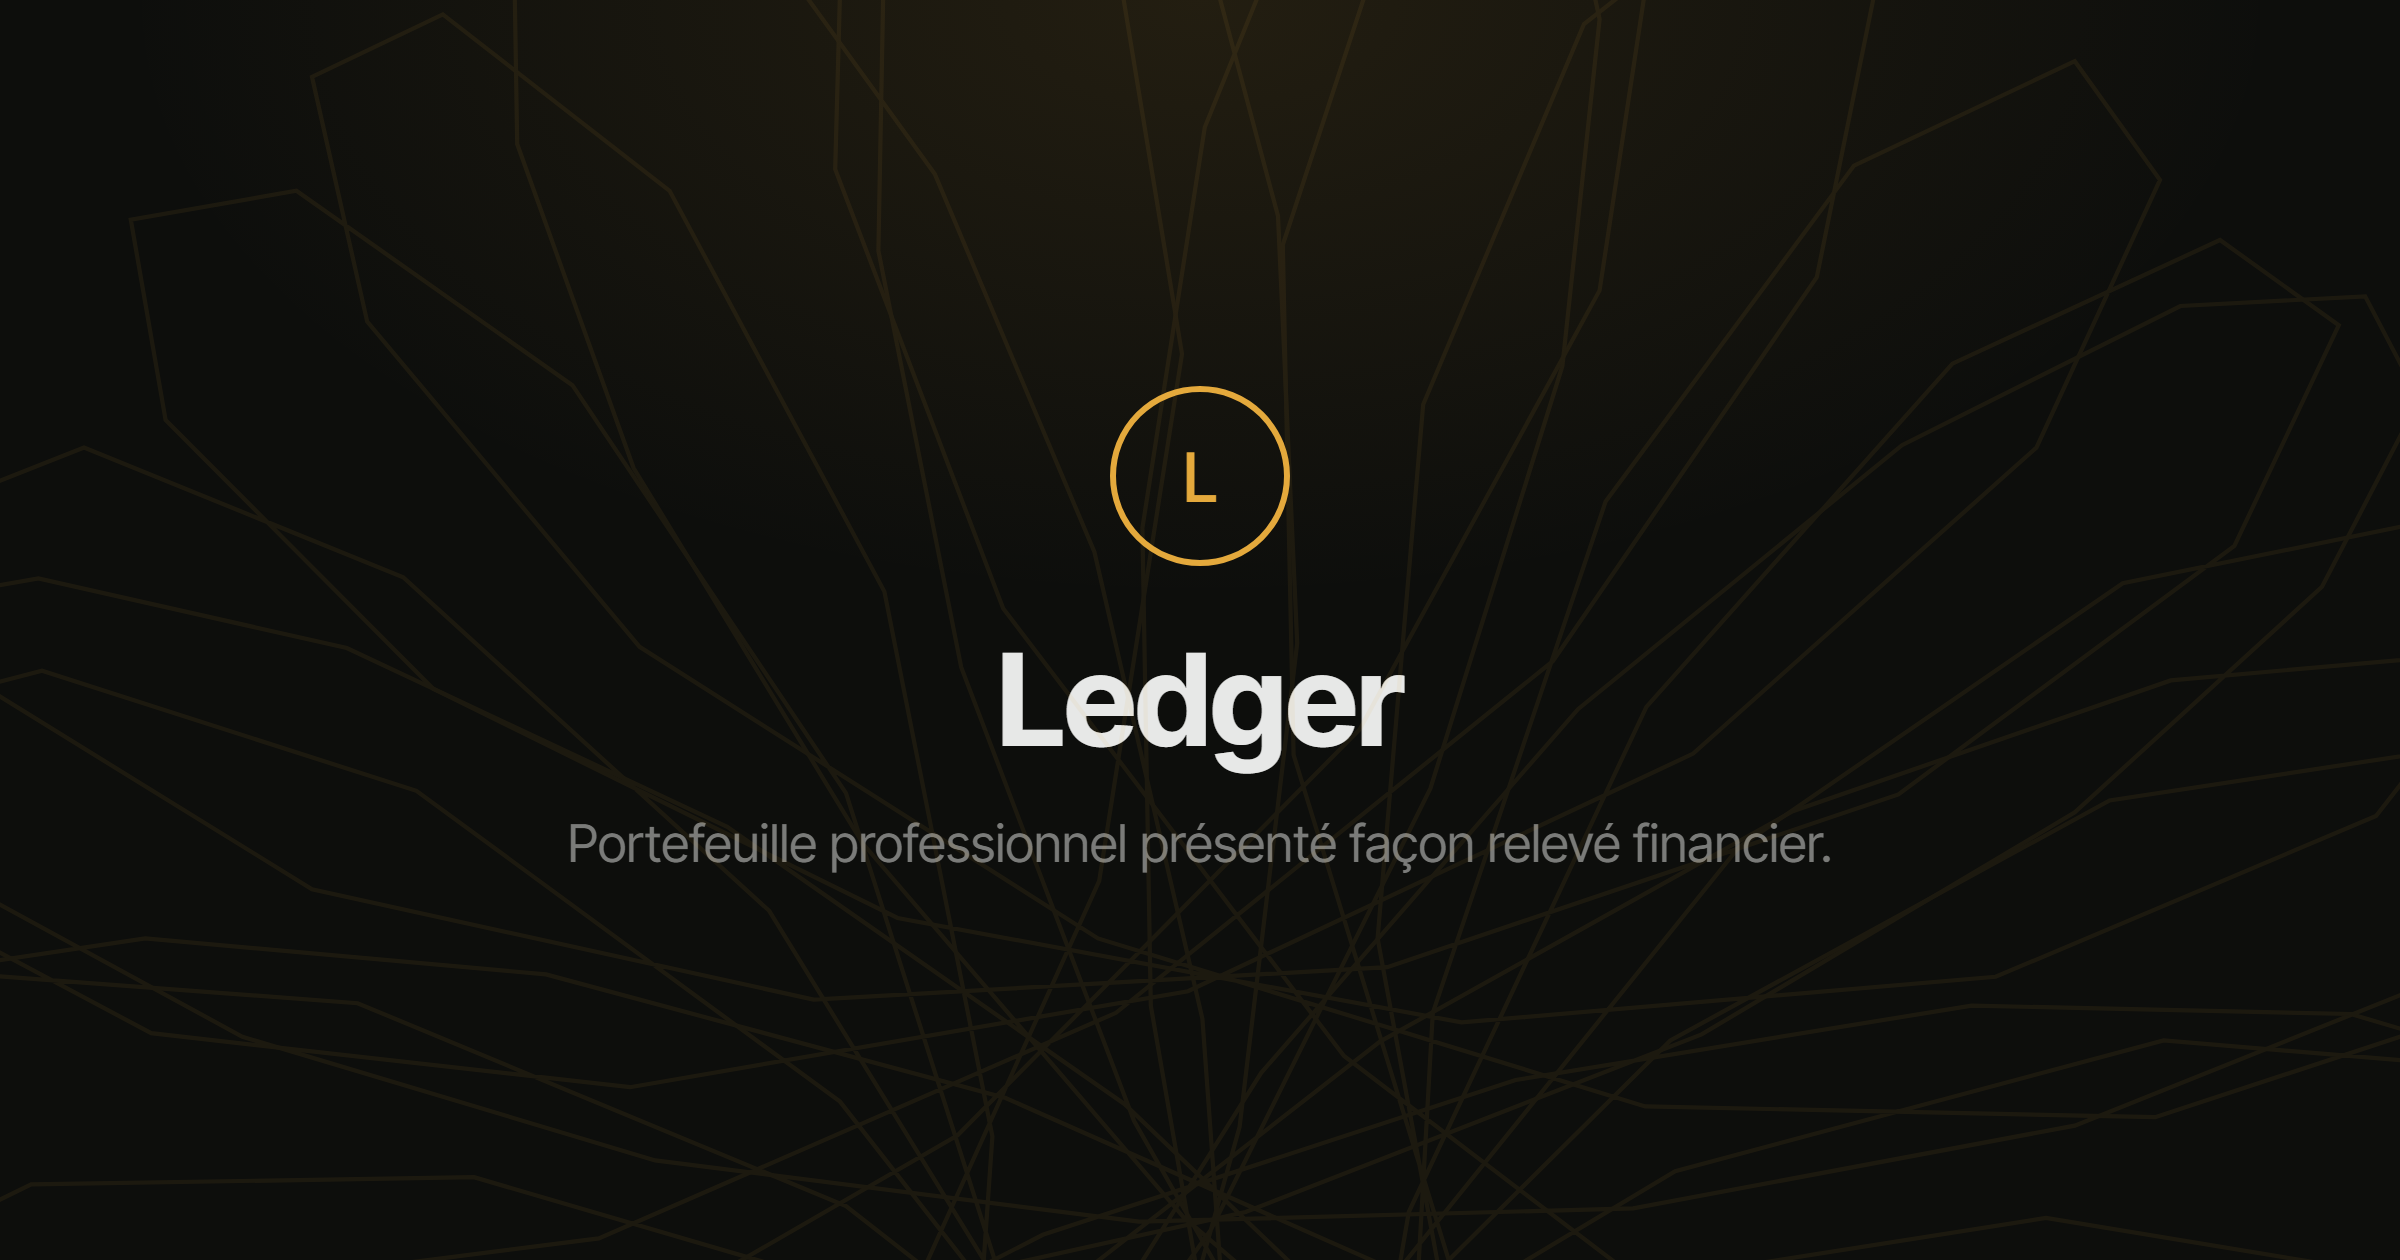
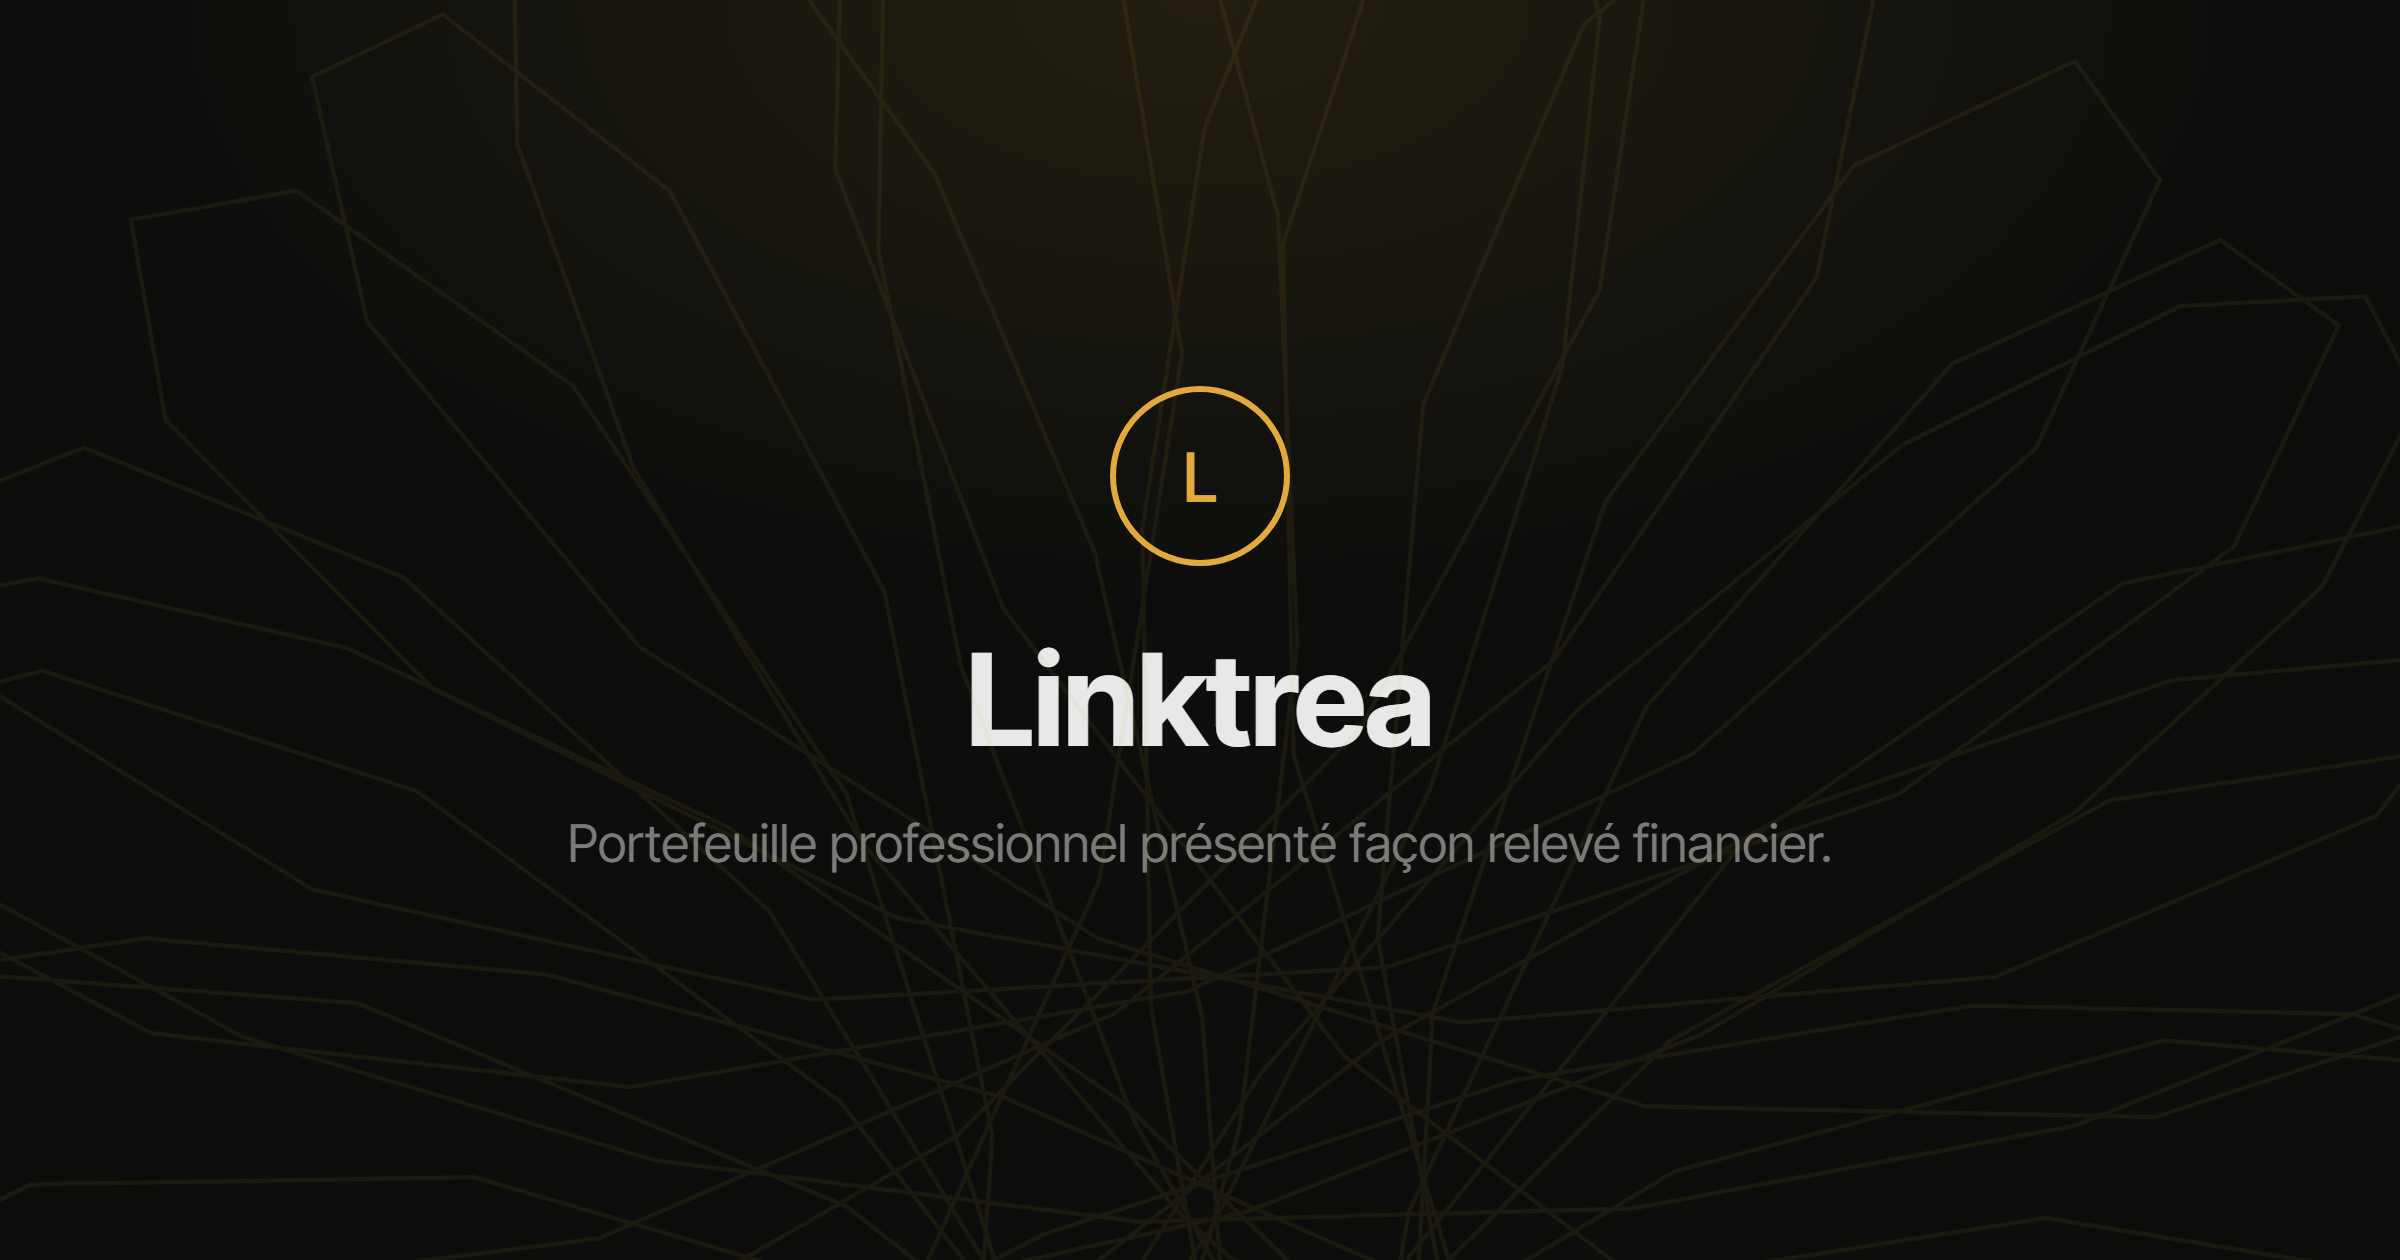
Rebrand app from Ledger to Linktrea, add rights-reserved notice
Renames the product across every user-facing surface: page titles,
OpenGraph/Twitter meta tags, the default OG share image, the share
card and business card wordmarks, the "Ledger" gallery theme's
display name, downloaded filenames, and package.json. Internal
identifiers that existing users' saved data depends on (localStorage
keys, the theme's internal id) are left untouched to avoid breaking
already-published profiles.

Also adds a rights-reserved line to the public profile footer, shown
on every published profile.

Changed region(s): [[0.4062, 0.4952, 0.5938, 0.619]]

diff --git a/src/lib/shareCard.ts b/src/lib/shareCard.ts
@@ -656,7 +656,7 @@ async function drawContentStack(
   return y
 }
 
-// Marque "LEDGER" + URL, centrées sur centerX, ancrées par le BAS (baselineY
+// Marque "LINKTREA" + URL, centrées sur centerX, ancrées par le BAS (baselineY
 // = position de la ligne d'URL, la marque vient au-dessus) — plus pratique
 // pour caler un pied de carte à une distance fixe du bord bas, quel que soit
 // ce qu'il y a au-dessus.
@@ -672,7 +672,7 @@ function drawFooter(
   ctx.textAlign = 'center'
   ctx.fillStyle = colors.accent
   ctx.font = `600 22px "${duo.monoFamily}"`
-  ctx.fillText('LEDGER', centerX, baselineY - 48)
+  ctx.fillText('LINKTREA', centerX, baselineY - 48)
 
   const urlSize = fitFontSize(ctx, urlText, duo.monoFamily, 400, 26, 16, maxWidth)
   ctx.fillStyle = colors.muted
@@ -899,7 +899,7 @@ async function composeBusinessCard(
   const footerY = height - padding
   ctx.fillStyle = colors.accent
   ctx.font = `600 20px "${duo.monoFamily}"`
-  ctx.fillText('LEDGER', leftX, footerY - 30)
+  ctx.fillText('LINKTREA', leftX, footerY - 30)
 
   if (publicUrl) {
     const urlText = displayUrl(publicUrl)
@@ -1003,7 +1003,7 @@ export function downloadCanvasBlob(blob: Blob, fileName: string): void {
 
 export async function downloadShareCard(profile: Profile, format: ShareCardFormat, content: ShareCardContent, publicUrl?: string): Promise<void> {
   const blob = await generateShareCard(profile, format, content, publicUrl)
-  downloadCanvasBlob(blob, `ledger-${slugify(profile.identity.fullName) || 'profil'}-${format}.png`)
+  downloadCanvasBlob(blob, `linktrea-${slugify(profile.identity.fullName) || 'profil'}-${format}.png`)
 }
 
 // --- Carte combinée avec QR — API historique (personnalisation avancée,
@@ -1024,5 +1024,5 @@ export async function generateQrCard(profile: Profile, publicUrl: string): Promi
 
 export async function downloadQrCard(profile: Profile, publicUrl: string): Promise<void> {
   const blob = await generateQrCard(profile, publicUrl)
-  downloadCanvasBlob(blob, `ledger-qr-carte-${slugify(profile.identity.fullName) || 'profil'}.png`)
+  downloadCanvasBlob(blob, `linktrea-qr-carte-${slugify(profile.identity.fullName) || 'profil'}.png`)
 }

diff --git a/index.html b/index.html
@@ -5,7 +5,7 @@
     <link rel="icon" type="image/svg+xml" href="./favicon.svg" />
     <meta name="viewport" content="width=device-width, initial-scale=1.0" />
     <meta name="theme-color" content="#0d0e0c" />
-    <title>Ledger</title>
+    <title>Linktrea</title>
     <!--
       Ces balises sont des valeurs de repli statiques, remplacées côté
       client par useDocumentMeta() une fois le profil chargé (voir
@@ -15,10 +15,10 @@
     -->
     <meta name="description" content="Portefeuille professionnel présenté façon relevé financier." />
     <meta property="og:type" content="profile" />
-    <meta property="og:title" content="Ledger" />
+    <meta property="og:title" content="Linktrea" />
     <meta property="og:description" content="Portefeuille professionnel présenté façon relevé financier." />
     <meta name="twitter:card" content="summary" />
-    <meta name="twitter:title" content="Ledger" />
+    <meta name="twitter:title" content="Linktrea" />
     <meta name="twitter:description" content="Portefeuille professionnel présenté façon relevé financier." />
   </head>
   <body>

diff --git a/src/components/view/PublicEmptyProfileGhost.tsx b/src/components/view/PublicEmptyProfileGhost.tsx
@@ -37,7 +37,7 @@ export default function PublicEmptyProfileGhost({ theme, domain, appearance }: P
       <div className="fixed inset-0 z-10 flex items-center justify-center px-6 bg-ink/50">
         <div className="max-w-xs w-full rounded-lg border border-ink-raised bg-ink-raised p-6 text-center shadow-xl">
           <p className="text-label uppercase tracking-label text-muted mb-2">Aperçu</p>
-          <h1 className="text-xl font-semibold mb-2">Voici à quoi ressemble un profil Ledger</h1>
+          <h1 className="text-xl font-semibold mb-2">Voici à quoi ressemble un profil Linktrea</h1>
           <p className="text-sm text-muted mb-5">
             Ce profil n'a pas encore de contenu. Créez le vôtre pour obtenir votre relevé et le lien à partager.
           </p>

diff --git a/src/components/ProfileView.tsx b/src/components/ProfileView.tsx
@@ -111,6 +111,9 @@ export default function ProfileView({ profile, standalone = true, publicUrl, sta
               <SignatureQuote signature={profile.identity.signature} style={signatureStyle} />
             </div>
             <ActionBar profile={profile} publicUrl={publicUrl} staticPosition={staticActionBar} />
+            <p className="px-6 @min-[1024px]:px-0 mt-2 text-xs text-muted text-center @min-[1024px]:text-left">
+              Tous droits réservés à Napps de N'nahssé Group - Jean-David Kouamé
+            </p>
           </Aside>
 
           <Main standalone={standalone} className="@min-[1024px]:min-w-0">

diff --git a/src/components/view/PublicProfileNotFound.tsx b/src/components/view/PublicProfileNotFound.tsx
@@ -6,7 +6,7 @@ import { Link } from 'react-router-dom'
 export default function PublicProfileNotFound() {
   return (
     <div className="min-h-dvh flex flex-col items-center justify-center gap-4 px-6 text-center bg-ink text-paper font-sans">
-      <p className="text-label uppercase tracking-label text-muted">Ledger</p>
+      <p className="text-label uppercase tracking-label text-muted">Linktrea</p>
       <h1 className="text-2xl font-semibold">Ce profil n'existe pas</h1>
       <p className="text-sm text-muted max-w-xs">
         Ce lien est introuvable, ou n'est plus publié par son propriétaire.

diff --git a/src/lib/useDocumentMeta.ts b/src/lib/useDocumentMeta.ts
@@ -31,7 +31,7 @@ function setMetaTag(attr: 'name' | 'property', key: string, content: string) {
 export function useDocumentMeta(profile: Profile, enabled = true) {
   useEffect(() => {
     if (!enabled) return
-    const name = profile.identity.fullName || 'Ledger'
+    const name = profile.identity.fullName || 'Linktrea'
     const headline = profile.identity.headline
     const title = headline ? `${name} · ${headline}` : name
     const description = profile.identity.bio || `Portefeuille professionnel de ${name}, présenté façon relevé financier.`

diff --git a/src/components/view/BusinessCardModal.tsx b/src/components/view/BusinessCardModal.tsx
@@ -57,7 +57,7 @@ export default function BusinessCardModal({ open, profile, publicUrl, onClose }:
     const canvas = canvasRef.current
     if (!canvas || rendering) return
     const blob = await exportCanvasToBlob(canvas)
-    downloadCanvasBlob(blob, `ledger-${slugify(profile.identity.fullName) || 'profil'}-carte-visite.png`)
+    downloadCanvasBlob(blob, `linktrea-${slugify(profile.identity.fullName) || 'profil'}-carte-visite.png`)
   }
 
   // Même cadre à hauteur CSS fixe que ShareCardModal (voir son commentaire,

diff --git a/src/pages/LoginPage.tsx b/src/pages/LoginPage.tsx
@@ -151,7 +151,7 @@ export default function LoginPage() {
   // ne soit visible — une UI spécifique à ce cas ne serait jamais vue.
   return (
     <div className="min-h-dvh flex flex-col items-center justify-center gap-4 px-6 text-center bg-ink text-paper font-sans">
-      <p className="text-label uppercase tracking-label text-muted">Ledger</p>
+      <p className="text-label uppercase tracking-label text-muted">Linktrea</p>
 
       {accountDeleted && (
         <p className="text-sm text-up max-w-xs" role="status">

diff --git a/src/components/view/ShareCardModal.tsx b/src/components/view/ShareCardModal.tsx
@@ -89,7 +89,7 @@ export default function ShareCardModal({ open, profile, publicUrl, onClose }: Pr
     const canvas = canvasRef.current
     if (!canvas || rendering) return
     const blob = await exportCanvasToBlob(canvas)
-    downloadCanvasBlob(blob, `ledger-${slugify(profile.identity.fullName) || 'profil'}-${format}.png`)
+    downloadCanvasBlob(blob, `linktrea-${slugify(profile.identity.fullName) || 'profil'}-${format}.png`)
   }
 
   // Zone d'aperçu à hauteur CSS CONSTANTE, quel que soit le format choisi

diff --git a/src/lib/theme/galleryThemes.ts b/src/lib/theme/galleryThemes.ts
@@ -66,7 +66,7 @@ export type GalleryThemeMeta = {
 export const GALLERY_THEMES: Record<GalleryThemeId, GalleryThemeMeta> = {
   ledger: {
     id: 'ledger',
-    name: 'Ledger',
+    name: 'Linktrea',
     background: { kind: 'flat', base: '#0D0E0C' },
     // Duo, style et layout par défaut du profil vide (voir emptyProfile.ts) —
     // Ledger doit rester visuellement identique à l'ancien theme.* par défaut.

diff --git a/src/lib/qrDownload.ts b/src/lib/qrDownload.ts
@@ -35,7 +35,7 @@ export async function downloadQrPng(matrix: QrMatrix, moduleColor: string, fileN
   const objectUrl = URL.createObjectURL(blob)
   const a = document.createElement('a')
   a.href = objectUrl
-  a.download = `ledger-qr-${slugify(fileNameHint) || 'profil'}.png`
+  a.download = `linktrea-qr-${slugify(fileNameHint) || 'profil'}.png`
   document.body.appendChild(a)
   a.click()
   a.remove()

diff --git a/src/pages/EditPage.tsx b/src/pages/EditPage.tsx
@@ -61,7 +61,7 @@ export default function EditPage() {
   const resolvedBackground = useAppliedTheme(activeAppearance, activeAccent)
   useFaviconAndThemeColor(resolvedBackground.hex, activeAccent)
   useEffect(() => {
-    document.title = 'Éditeur · Ledger'
+    document.title = 'Éditeur · Linktrea'
   }, [])
 
   // Le temps que loadMine() résolve (chargement du vrai profil depuis le
